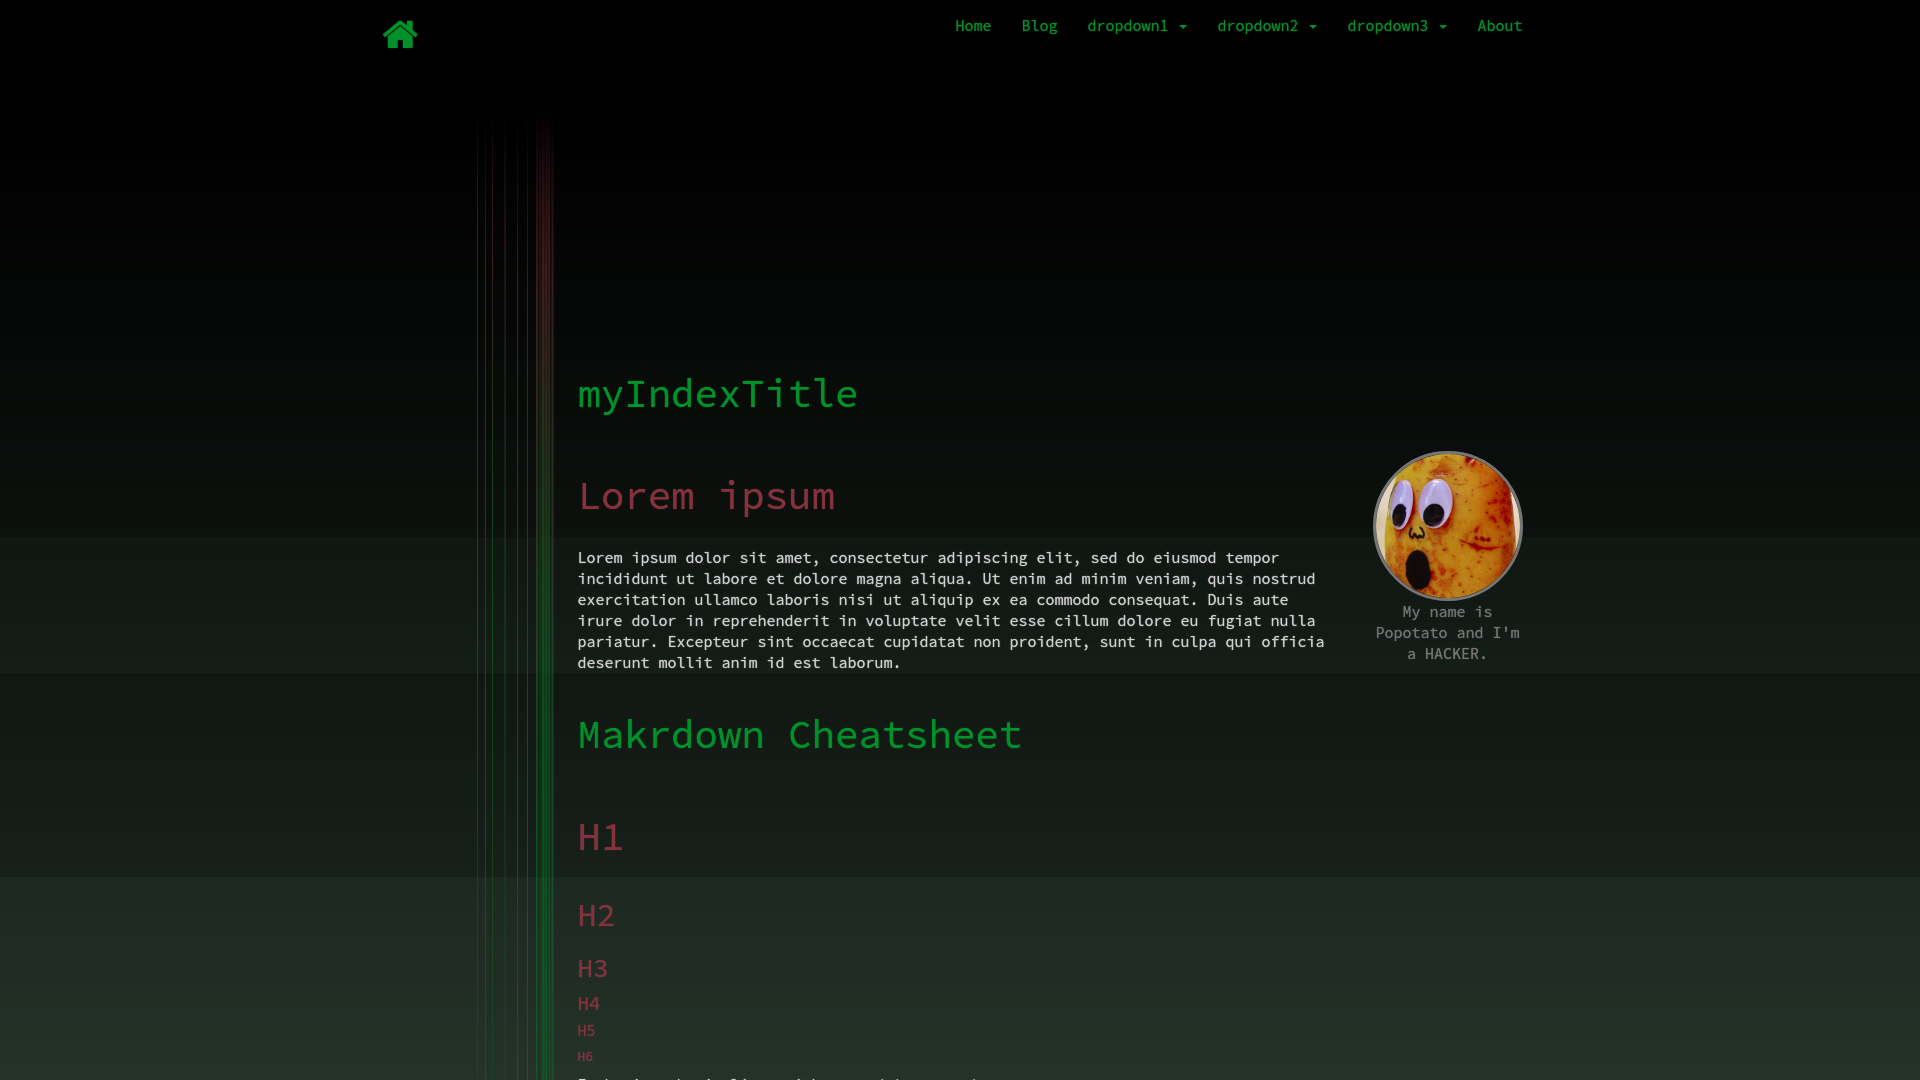
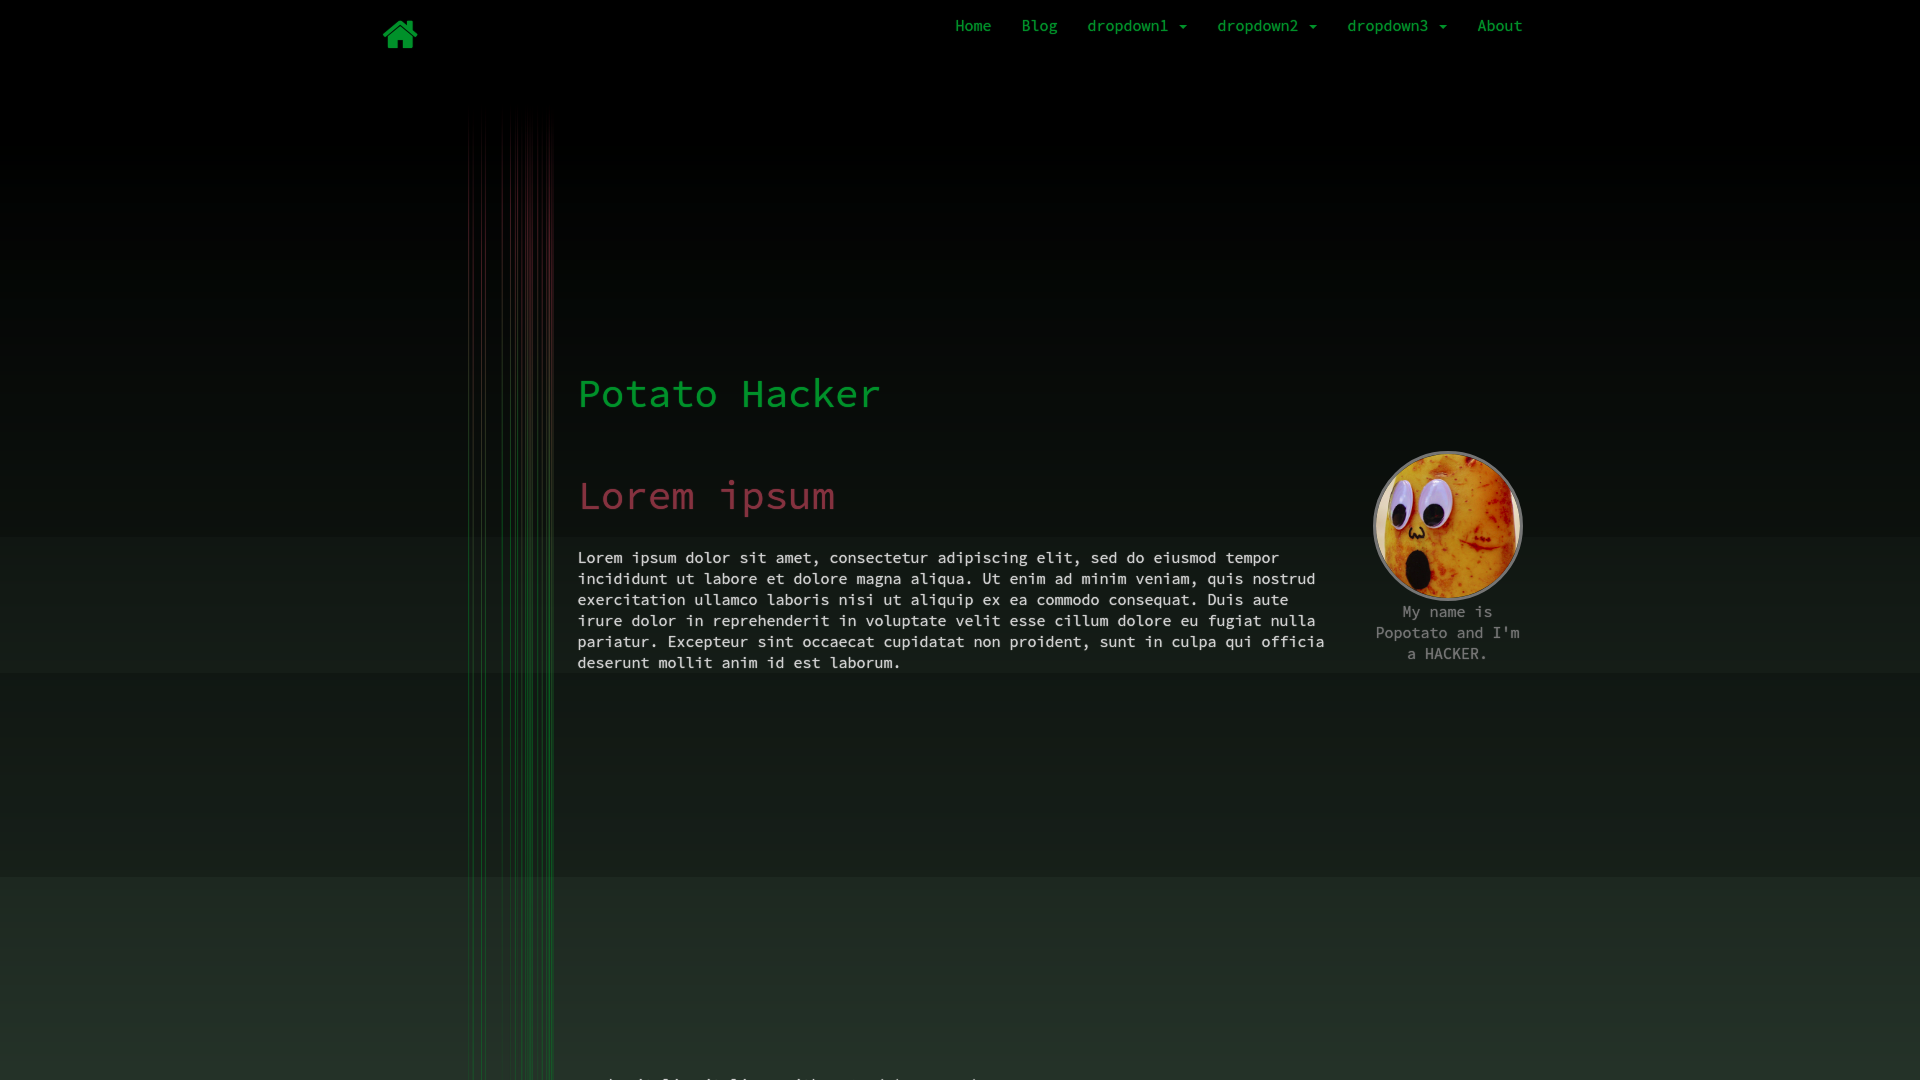
Added theme name to index

Changed region(s): [[0.25, 0.1528, 0.5312, 0.9778]]

diff --git a/index.md b/index.md
@@ -1,6 +1,6 @@
 ---
 layout: default
-title: myIndexTitle
+title: Potato Hacker
 description: Test page
 ---
 # Lorem ipsum
